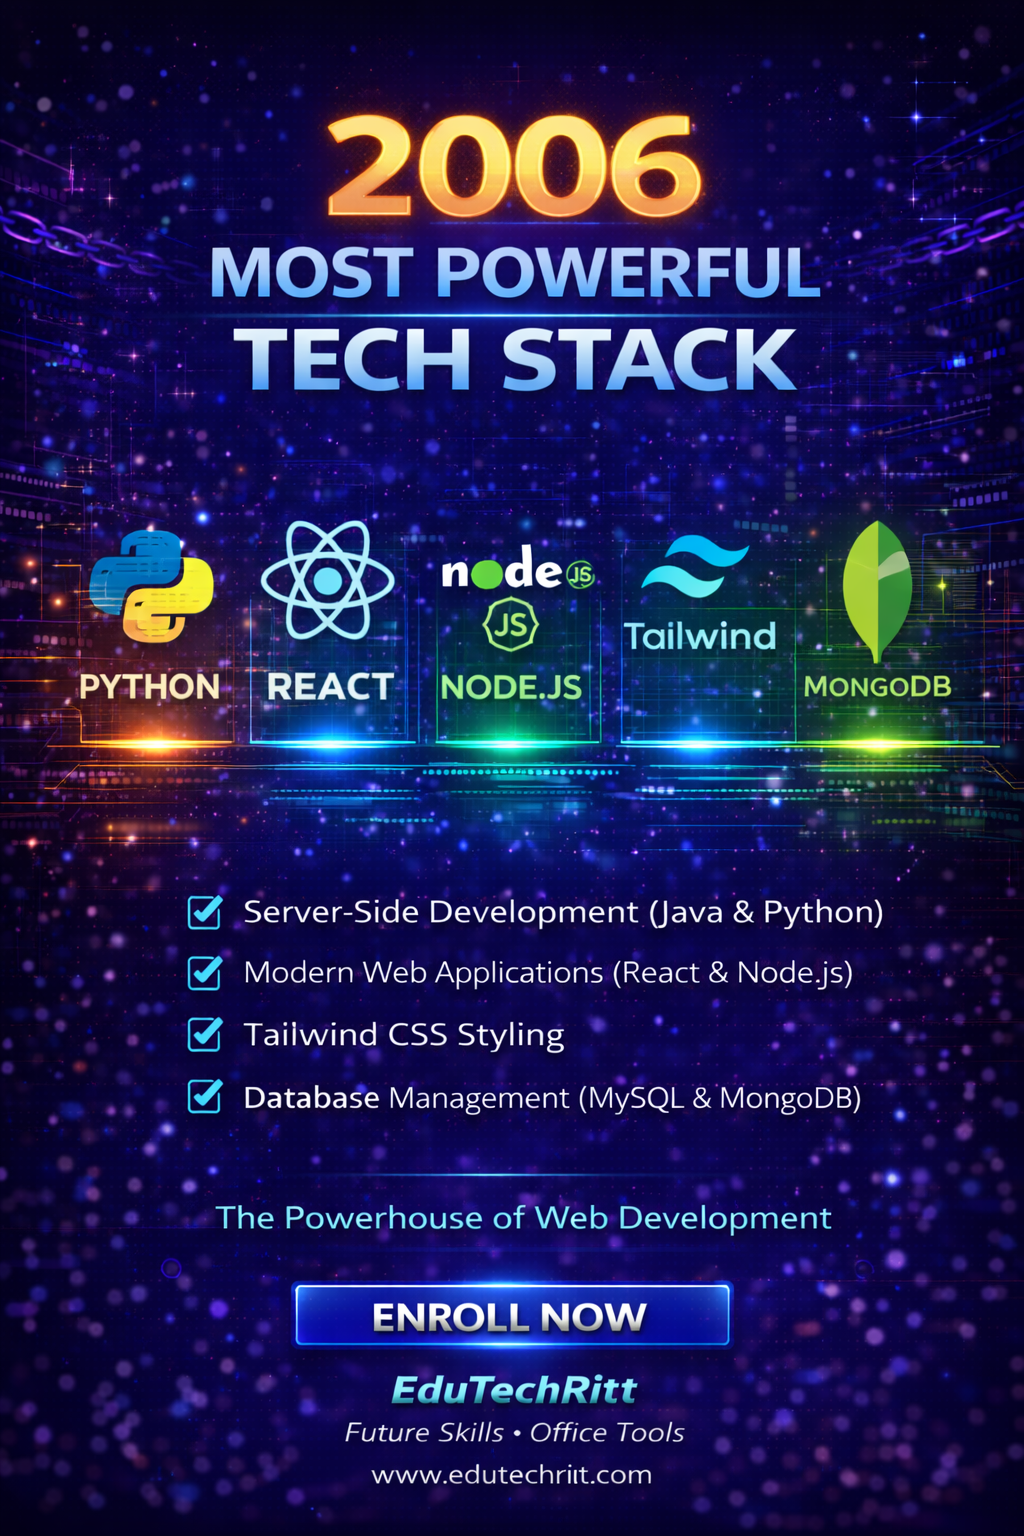
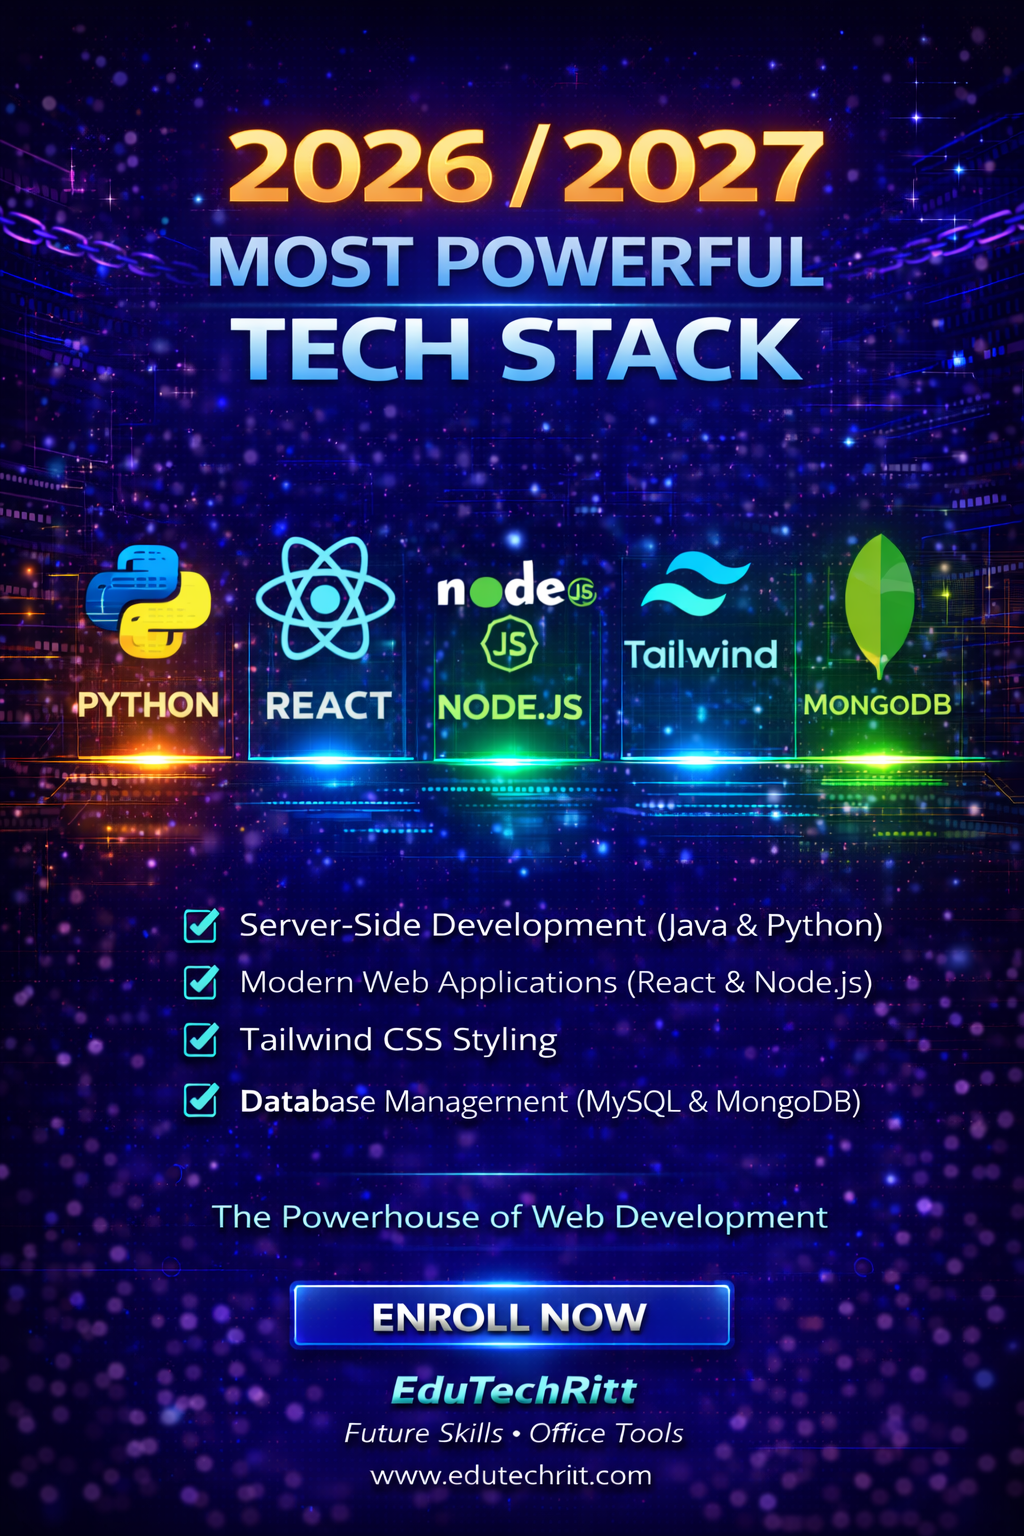
update

diff --git a/edutechritt-platform/index.html b/edutechritt-platform/index.html
@@ -427,13 +427,13 @@
                 <!-- CARD 12 -->
                 <div class="course-card flash">
                     <img src="images/ai_systems.png" alt="Course 10">
-                    <h3>DevOps Course</h3>
+                    <h3>Ai Systems</h3>
                 </div>
                 
                 <!-- CARD 12 -->
                 <div class="course-card flash">
-                    <img src="images/Techstack.png" alt="Course 10">
-                    <h3>Tech Stack 2026/27</h3>
+                    <img src="images/techstack.png" alt="Course 10">
+                    <h3>Tech Stack 2026/2027</h3>
                 </div>
     </section>
 
